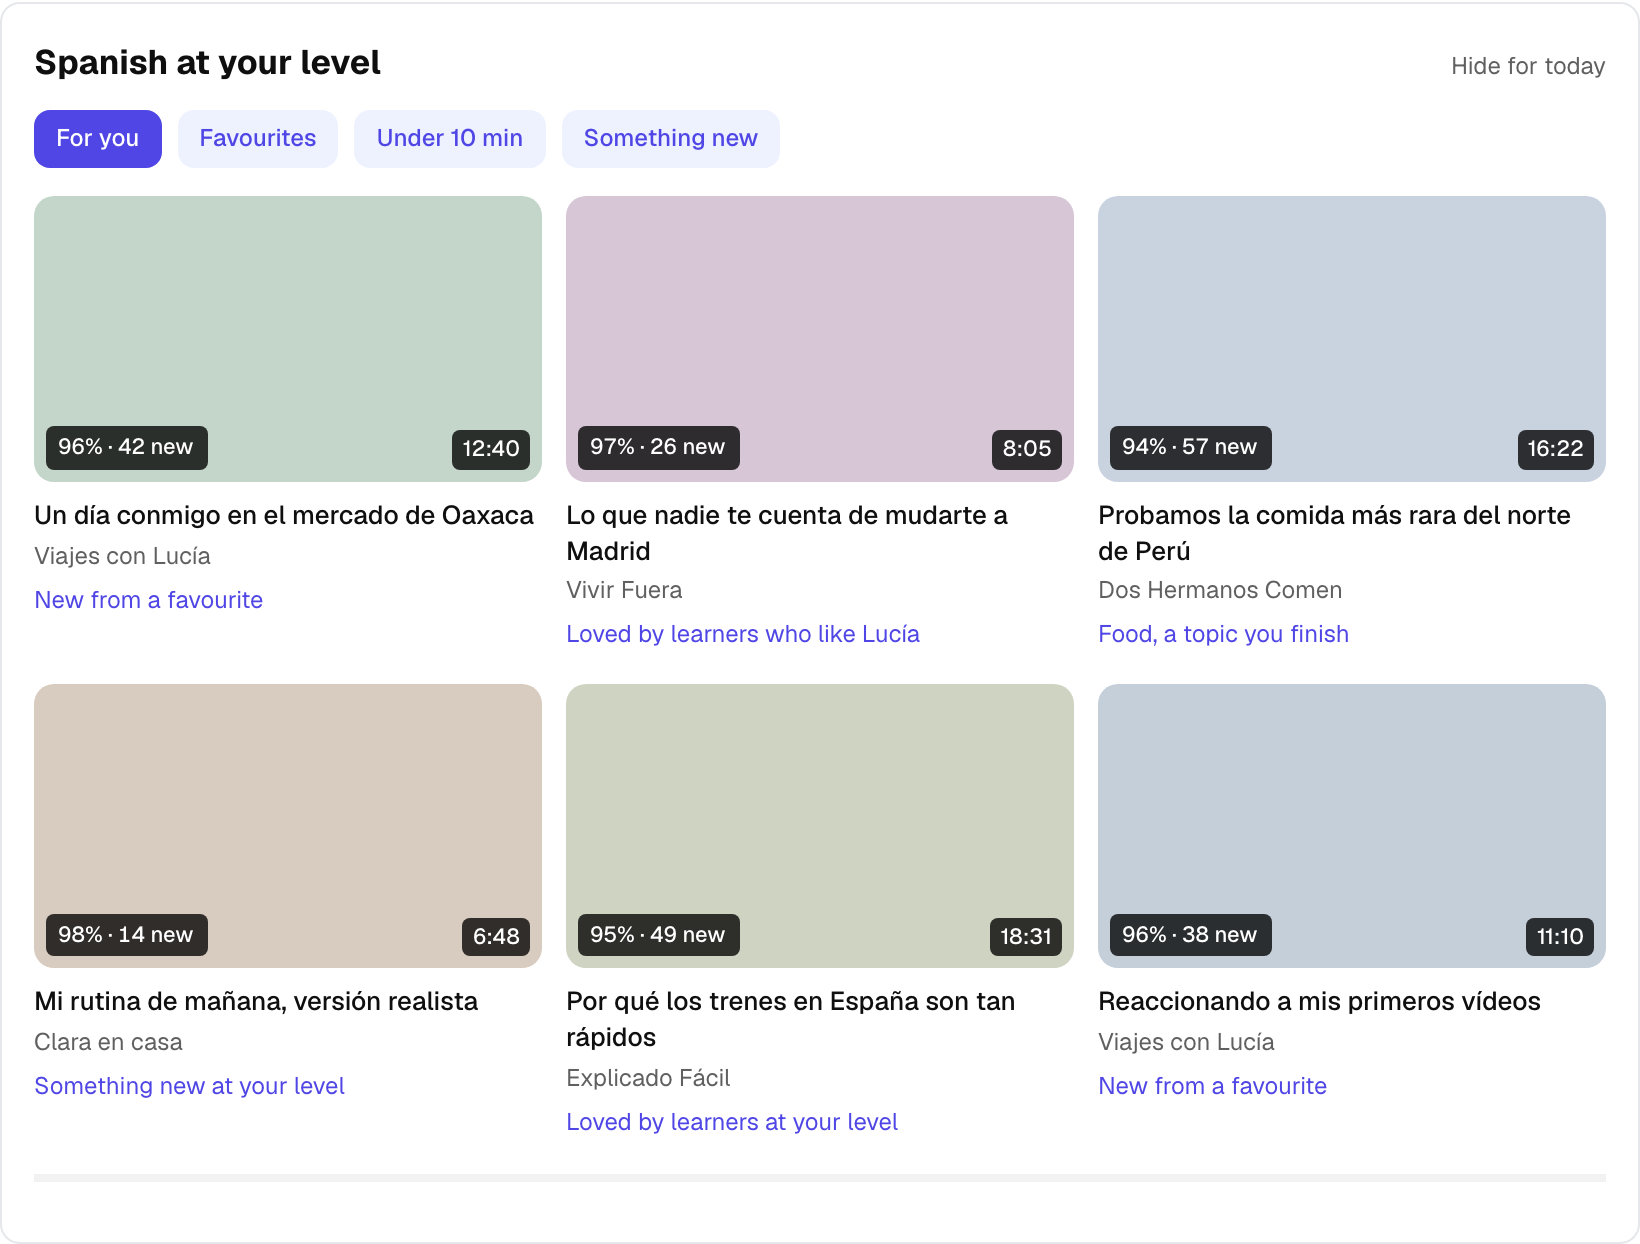
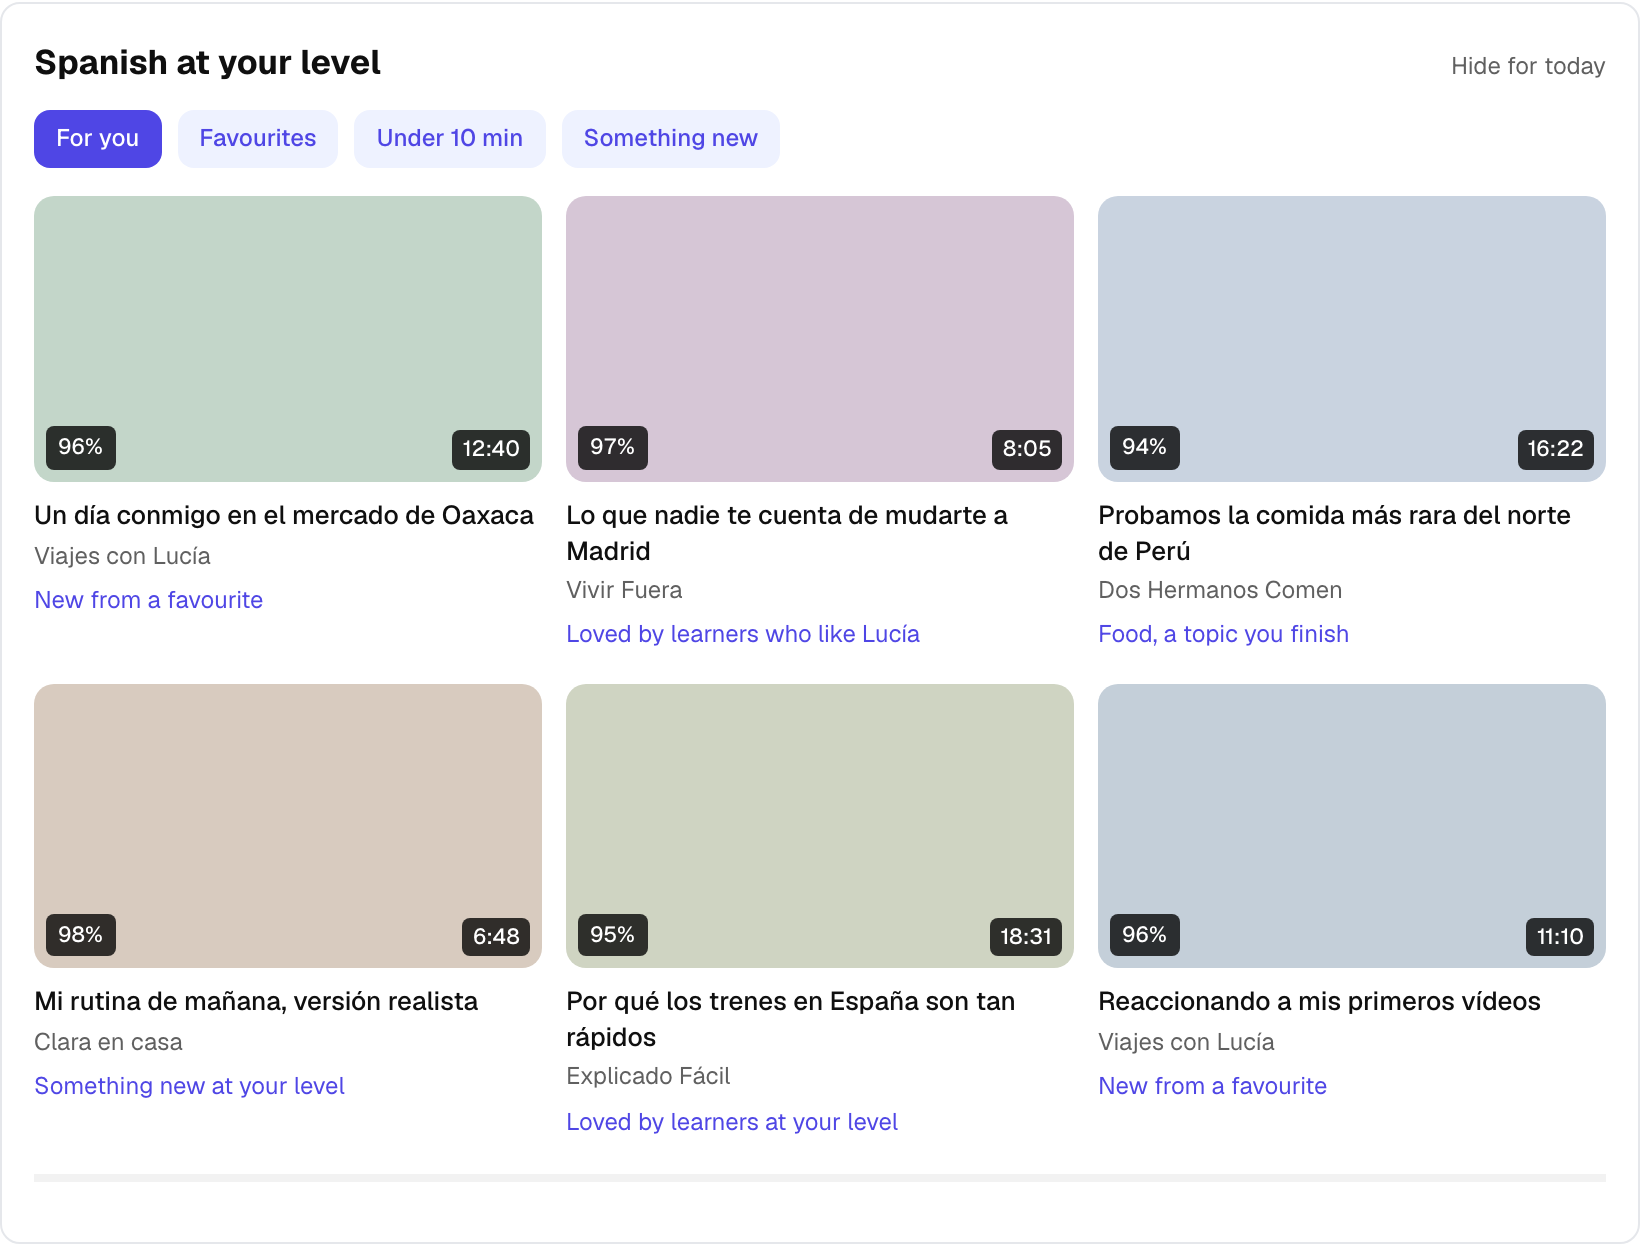
Simplify YouTube plan mockups and add the build order
- Thumbnail badges hold the percentage only; new words show on hover.
- The core-words card is tags plus "86.6% -> 95.5% understood", without
  bars or explanatory lines.
- Pace is not shown; PR 111's timings stay for moment-card clip times.
- The roadmap becomes five PRs: counts matrix, stuck words, watch signal and
  recap, fit badges, favourite channels with core words.

diff --git a/docs/plans/youtube-plan.md b/docs/plans/youtube-plan.md
@@ -199,14 +199,14 @@ minutes and leave. Badges answer that before the click, everywhere on YouTube.
 
 ![YouTube search with fit badges](youtube-plan/f3-fit-badges.png)
 
-*Badges show heard coverage and new words; unindexed videos show "Add to Langfour" on hover.
-For now there are no bands and no "too easy" state: the higher the number, the more you'll
+*A badge holds one short value, the heard coverage; hovering it adds the number of new words.
+Unindexed videos show "+ Add" on hover. For now there are no bands and no "too easy" state: the higher the number, the more you'll
 understand, and every list sorts highest first. Bands can come back once completion data shows
 where people actually give up.*
 
 - A content-script observer collects video ids from Home, Search, channel pages and the watch-page
   sidebar as they render. One batched call, `POST /api/videos/fit` with up to 50 ids, returns
-  coverage, new words and length; each id is one sparse row times the known-words vector.
+  coverage, and new words for the hover; each id is one sparse row times the known-words vector.
 - Cached per learner for 12 hours. Selectors live in one module with a daily smoke test against
   youtube.com, since YouTube's markup changes often.
 - Editing youtube.com goes against the spirit of YouTube's terms, as many learning extensions do;
@@ -230,7 +230,7 @@ The button is a plain toggle: outline when off, filled when on, like today's Boo
 Indexing progress is shown, but not on the button. The queue will be processed on the server, so a
 favourited channel's videos arrive within hours, and the progress is real feedback that the
 favourite did something. It lives on the channel's Langfour tab, phrased as what the learner gets:
-"34 of 212 videos added · 9 at your level so far". The line updates as videos land and disappears
+"34 of 212 videos added · 9 at your level". The line updates as videos land and disappears
 once the channel is done. If a channel stalls (no captions, failed downloads), the line drops the
 total rather than showing a number that never moves: "34 videos added".
 
@@ -250,15 +250,9 @@ How a channel is described:
   Spanish videos (`video_quality.py`): A, the grammar level (A1–C1); C, content in the words; D,
   developed thought; E, transferable language. A channel's profile is the median of its videos, so
   it covers the whole corpus with no backfill.
-- **Pace, roughly, from what is stored:** words per minute of video (transcript words divided by
-  the video's `length`). It works for every video, captioned or Whispered, and the corpus median is
-  150. It is a rough number: neither path keeps timings. Caption cues arrive with `tStartMs`, but
-  `json3_text` keeps only the text, and Whisper returns plain text per piece. So intros, music and
-  pauses all count as slow speech. Good enough for a fast/slow hint for the existing corpus.
-  Transcripts ingested from now on keep their timings (`cues` and `cueSource` in the processed
-  JSON, on branch `feat/caption-timings`): a caption track's own cues, or Whisper's 15–28 s
-  pieces. Speaking rate is words over the time the cues cover, with overlaps merged, since
-  automatic tracks roll. The same cues give clip times for moment cards.
+- **Not pace.** Speaking rate isn't shown. Transcripts ingested since PR 111 keep their timings
+  (`cues` and `cueSource` in the processed JSON: a caption track's own cues, or Whisper's 15–28 s
+  pieces), which moment cards need for clip times and which could give pace later.
 - **From learners:** "Yes, clear / Too fast / Hard accent", asked after a learner's first few
   videos from a channel. The only signal on pronunciation and accent.
 - **Country:** from `channels.list` (1 quota unit).
@@ -352,9 +346,9 @@ channel opens up.
 
 ![Core words card for a channel](youtube-plan/f8-core-words.png)
 
-*Real numbers: a learner with 2,449 known words and the 13 indexed videos from BasiCH. The bars
-show how much of the channel's speech they'd understand, now and after the 25 words. Shown on the
-channel's Langfour tab after a favourite, and on a series page in the Library.*
+*Real numbers: a learner with 2,449 known words and the 13 indexed videos from BasiCH, who would
+understand 86.6% of the channel's speech now and 95.5% after the 25 words. Shown on the channel's
+Langfour tab after a favourite, under the progress line, and on a series page in the Library.*
 
 - Core words: unknown words that appear in at least half of a channel's (or series') videos,
   ordered by how often they're spoken, up to 25.
@@ -366,18 +360,25 @@ channel's Langfour tab after a favourite, and on a series page in the Library.*
 - Netflix and Prime series work the same way from the Library's episodes, which carry series and
   season.
 
-## Roadmap
+## Build order
 
-| Phase | Weeks | Features |
+Five PRs cover features 1–4 and 8.
+
+| PR | Contents | Needs |
 |---|---|---|
-| Honest numbers | 1 | 1 alone: counts in the matrix, stuck-word cleanup, learning-account advice in onboarding |
-| Fix the basics | 2–3 | 2 desktop watched mark and history-page read · 3 fit badges · 4 Favourite button and queue bump |
-| Feed | 3–6 | 5 per-learner feed and Home shelf · 6 labels, feedback and history cleanup · 4 channel profiles and "also love" · 2 recaps of phone watching |
-| Watch and keep | 6–10 | 7 flow panel with autoplay · 8 core words |
+| 1 · Coverage counts every word | `int16` count matrix, a binary view for distinct new words and words to learn, a `"weights": "counts"` marker that old matrix files fail, tests, corpus repack. One fit function that 4 and 5 call. | nothing |
+| 2 · Stuck common words | A "Common words you never reviewed" tab on the Learning table with the dark pill, a one-time link in the popup, learning-account advice in onboarding, and the `como`/`vale`/`gracias` re-root fix. | nothing |
+| 3 · Watch signal + recap | `watch_events` with `videos_seen` as a view; watched at 70% played, with unmark; the history-page read after one consent; yesterday's recap. | nothing |
+| 4 · Fit badges | `POST /api/videos/fit`; an observer with all selectors in one module; badges with the percentage only; "+ Add" queues the video. | 1, server queue |
+| 5 · Favourite channels + core words | `channel_favourites`, Favourite replacing Bookmark, the queue bump and lifted cap, and the Langfour tab with the progress line and core words. | 1, server queue |
 
-Honest numbers ship alone in week 1 because every other feature reads them, and they help today's
-Videos page right away. The watch signal follows for the same reason. The Favourite
-button ships early so likes are piling up when the feed is built.
+PR 1 goes first because every later screen shows its numbers. PRs 2 and 3 don't read the matrix
+and touch other files, so they can run alongside it. PRs 4 and 5 wait for the server queue
+(`feat/backend-ingest-worker`), so "+ Add" and Favourite lead to indexed videos within hours.
+
+After these: the per-learner feed and Home shelf (5), steering YouTube's feed (6), the watch panel
+(7), and, once there are more learners, "Learners at your level also love" and the clarity
+question.
 
 ## Later
 
